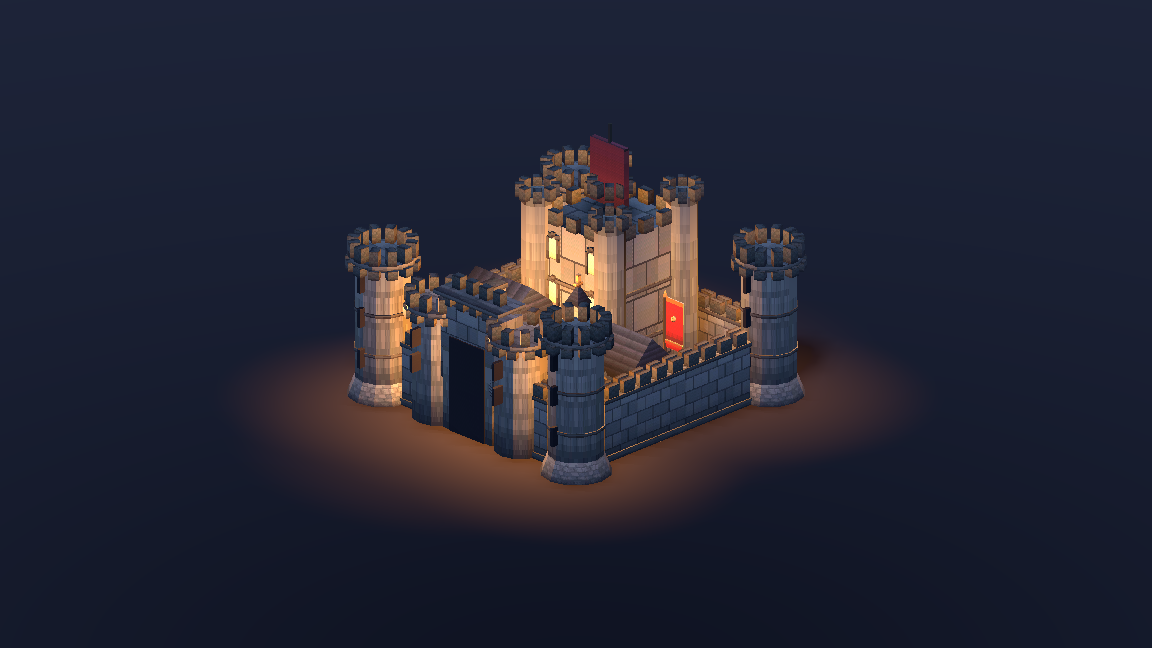
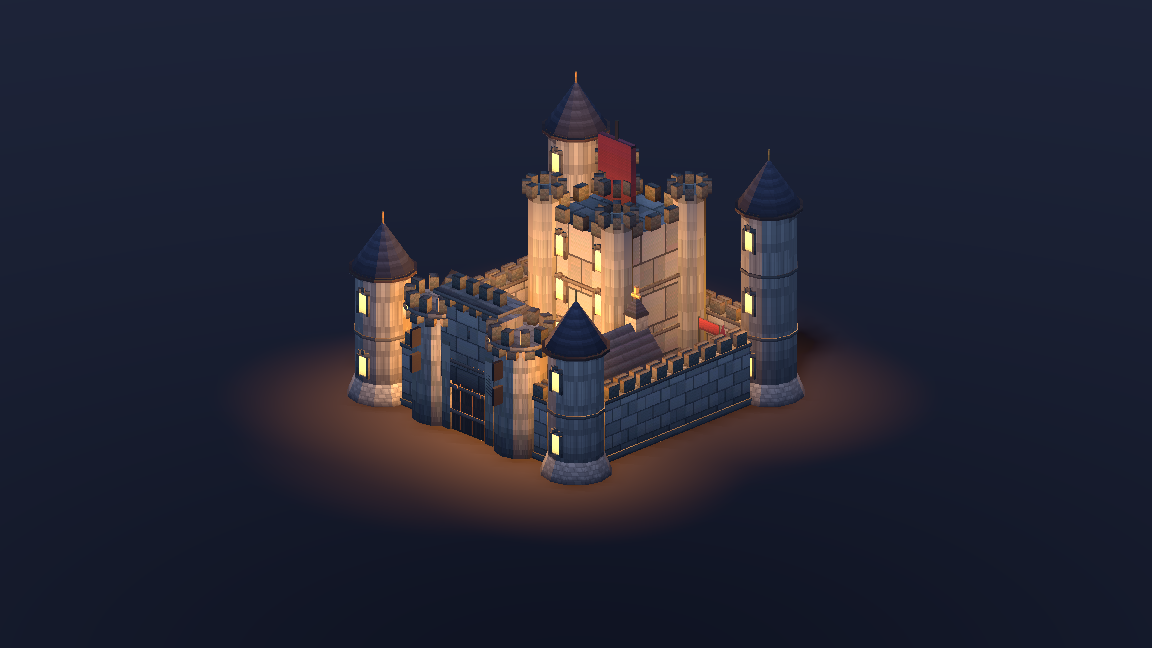
feat(castle): re-assemble demos with spired towers + clean ward layout
Both assembled castles rebuilt on the fixed parts: self-contained spired corner
towers (no stacked-cap float), timber-gated gatehouse, and a spaced inner ward
(great hall + chapel in opposite quadrants, well/braziers courtyard) so nothing
overlaps walls or hovers. Refreshes assembled_grand/dark.png (Blender) and the
in-engine assembled_*_godot.png proofs.

diff --git a/tools/asset_generators/village_kit/assemble_castles.py b/tools/asset_generators/village_kit/assemble_castles.py
@@ -22,11 +22,9 @@ def place(o, x, y, z=0, rz=0):
     return o
 
 
-def spired_tower(k, x, y, cap, storeys=2):
-    for s in range(storeys):
-        m = C._recolor(k, C.tower_round_mid, "mid", C._DARK) if DARK else C.tower_round_mid(k)
-        place(m, x, y, s * 1.0)
-    place(cap(k), x, y, storeys * 1.0)
+def spire(k, fn, x, y):
+    """Place a self-contained spired tower (dark-recoloured when DARK)."""
+    place(C._recolor(k, fn, "sp", C._DARK) if DARK else fn(k), x, y, 0)
 
 
 def build(k):
@@ -36,14 +34,12 @@ def build(k):
     keep = C.keep_dark if DARK else C.keep
     hall = C.great_hall_dark if DARK else C.great_hall
     chapel = C.chapel_dark if DARK else C.chapel
-    cap = C.cap_cone_dark if DARK else C.cap_cone_slate
-    cap2 = C.cap_cone_tall_red if DARK else C.cap_cone_red
 
-    # four corner spired towers (enclosure corners at (+-2, +-2))
-    spired_tower(k, -2, -2, cap, 2)
-    spired_tower(k, 2, -2, cap, 2)
-    spired_tower(k, -2, 2, cap2, 3)      # taller rear towers
-    spired_tower(k, 2, 2, cap2, 3)
+    # four corner spired towers (self-contained; enclosure corners at (+-2, +-2))
+    spire(k, C.tower_spire, -2, -2)
+    spire(k, C.tower_spire, 2, -2)
+    spire(k, C.tower_spire_tall, -2, 2)      # taller rear towers
+    spire(k, C.tower_spire_tall, 2, 2)
 
     # front curtain wall + central gatehouse
     place(gate(k), 0, -2, 0)
@@ -57,21 +53,21 @@ def build(k):
         place(wall(k), -2, y, 0, 90)
         place(wall(k), 2, y, 0, 90)
 
-    # central keep + inner ward buildings
-    place(keep(k), 0, 0.7, 0)
-    place(hall(k), -1.0, -0.5, 0, 90)
-    place(chapel(k), 1.05, -0.3, 0, -90)
+    # central keep + inner ward buildings (spaced clear of keep + walls)
+    place(keep(k), 0, 0.85, 0)
+    place(hall(k), -1.15, -0.85, 0, 90)
+    place(chapel(k), 1.25, -0.7, 0)
 
     # courtyard dressing
+    place(C.banner_pole(k), -1.4, 1.15, 0)
+    place(C.pennant_pole(k), 1.4, 1.15, 0)
     if DARK:
-        place(C.brazier_witch(k), -0.7, -1.1, 0)
-        place(C.brazier_witch(k), 0.7, -1.1, 0)
-        place(C.banner_pole(k), 0.8, 0.9, 0)
+        place(C.brazier_witch(k), -0.55, -1.55, 0)
+        place(C.brazier_witch(k), 0.55, -1.55, 0)
     else:
-        place(C.well(k), 0.7, -1.0, 0)
-        place(C.market_stall(k), -0.9, 1.0, 0)
-        place(C.banner_pole(k), 0.85, 1.0, 0)
-        place(C.tree(k), -1.1, 1.2, 0)
+        place(C.well(k), 0.0, -1.2, 0)
+        place(C.brazier(k), -0.55, -1.55, 0)
+        place(C.brazier(k), 0.55, -1.55, 0)
 
 
 k = Kit(palette=dict(PALETTE), emission=EMISSION, reset_scene=True, atlas=True)
